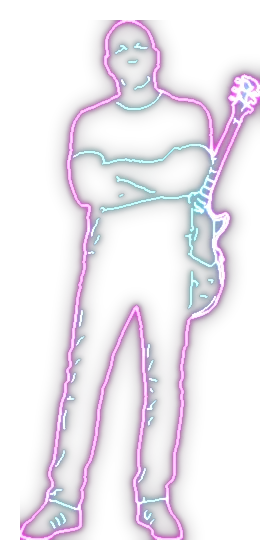
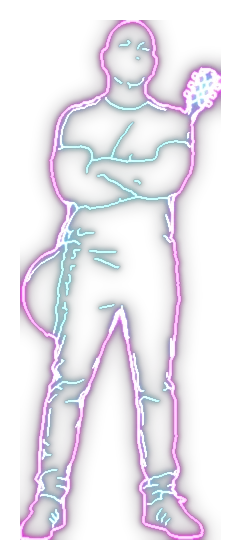
Band moments: back-to-back, headlock, stick tap and toast group shots (tap a member or every ~minute); Jordan's guitar-on-back pose fixed
Claude-Session: https://claude.ai/code/session_011gssdMsenVXumrh9a32rRB

diff --git a/index.html b/index.html
@@ -3057,7 +3057,7 @@ Reply with ONLY JSON: {"reply":"one short friendly sentence","changes":["plain-E
       neon(1); rf.style.opacity=.15; await wait(kind==="big"?900:450);
       for(let i=0;i<(kind==="big"?4:2);i++){ neon(0); await wait(40); neon(1); await wait(40); } neon(0); rf.style.opacity=""; return true; };
     function puff(n){ const R=m.rect(); for(let i=0;i<n;i++) smoke.push({x:R.x+R.w*(.3+Math.random()*.4),y:R.y+R.h*(.02+Math.random()*.25),vx:(Math.random()-.5)*.6,vy:-(0.8+Math.random()*1.2),r:5+Math.random()*6,a:.45,t:0,life:90+Math.random()*60}); kick(); }
-    async function zap(e){ e&&e.stopPropagation(); if(m.busy) return; m.busy=true; clearTimeout(wT); (cfg.sound==="chord"?guitarZap:cfg.sound==="drums"?drumZap:bassZap)(1.5); m.zapping=true; kick(); el.classList.add(cfg.anim||"zz");
+    async function zap(e){ e&&e.stopPropagation(); if(m.busy) return; if(window.MSMomentTry&&Math.random()<.4&&window.MSMomentTry(m)) return; m.busy=true; clearTimeout(wT); (cfg.sound==="chord"?guitarZap:cfg.sound==="drums"?drumZap:bassZap)(1.5); m.zapping=true; kick(); el.classList.add(cfg.anim||"zz");
       setPose(ZAP); place(ZAP); const end=performance.now()+1500; let on=false;
       while(performance.now()<end){ on=!on; neon(on); await wait(55); }
       m.zapping=false; el.classList.remove(cfg.anim||"zz"); neon(0);
@@ -3067,6 +3067,8 @@ Reply with ONLY JSON: {"reply":"one short friendly sentence","changes":["plain-E
       m.spot=-1; await wait(700+Math.random()*600); await appear(); m.busy=false; schedule(); }
     el.addEventListener("click",()=>window.MSSecret&&window.MSSecret("band")); el.addEventListener("click",zap);
     // dancing with Grace: swap poses on the beat with a neon pop (the drummer plays the kit instead)
+    m.away=async()=>{ if(m.busy||gagOn) return false; m.busy=true; clearTimeout(wT); if(m.seated) await stand(); else { await flicker(2); vis(false); neon(0); } m.spot=-1; return true; };
+    m.back=async()=>{ await wait(200+Math.random()*500); await appear(); m.busy=false; schedule(); };
     m.where=()=>m.seated&&S?{x:S.x+S.w*.5,f:S.y+S.h-8,seated:true}:(m.spot>=0?{x:SPOTS[m.spot][0],f:SPOTS[m.spot][1]}:null);
     m.jam=async ms=>{ if(m.busy||gagOn) return false; if(m.seated&&S){ playKit(); return true; }
       m.busy=true; clearTimeout(wT); const end=performance.now()+ms; let k=0;
@@ -3097,13 +3099,37 @@ Reply with ONLY JSON: {"reply":"one short friendly sentence","changes":["plain-E
     ar:{1:.5135,2:.5269,3:.5462,4:.5519,5:.6558,6:.8077,7:.5346,8:.4692,9:.5981,10:.3962,11:.6462,12:.6058,13:.4423,g1:.6346,g2:.6404},f:{1:1.05,6:.78,9:1.3,10:1.05,12:.74,g1:.92,g2:1}});
   // Jordan: shots v3, made from his character master sheet
   const JORDAN=Member({name:"Jordan",home:10,pre:"jj",walkR:5,walkL:11,sit:12,bar:13,gag:"jordan",sound:"chord",anim:"zj",sparky:true,flash:"#37e0ff",bolts:["#7ff3ff","#fff6a0","#22c8ff"],poses:[1,2,3,4,5,6,7,8],zap:9,fried:10,offset:5500,scale:.97,
-    ar:{1:0.6404,2:0.6635,3:0.5712,4:0.5865,5:0.5096,6:0.5,7:0.5308,8:0.4615,9:0.6538,10:0.5173,11:.6231,12:.5827,13:.3596,g1:.6096,g2:.5769},f:{2:.9,3:.97,9:1.36,12:.74,g1:1.04,g2:1.1}});
+    ar:{1:0.6404,2:0.6635,3:0.5712,4:0.5865,5:0.5096,6:0.5,7:0.5308,8:0.3865,9:0.6538,10:0.5173,11:.6231,12:.5827,13:.3596,g1:.6096,g2:.5769},f:{2:.9,3:.97,9:1.36,12:.74,g1:1.04,g2:1.1}});
   // Jacob: drummer, shots v2/v3 from his master sheet (face-locked)
-  const JACOB=Member({name:"Jacob",pre:"jb",v:"?v=4",gag:"jacob",sound:"drums",anim:"zz",flash:"#ff6ae6",poses:[1,2,3,4,5,6,7,8],zap:9,fried:10,offset:2700,scale:.98,
+  const JACOB=Member({name:"Jacob",pre:"jb",v:"?v=b5",gag:"jacob",sound:"drums",anim:"zz",flash:"#ff6ae6",poses:[1,2,3,4,5,6,7,8],zap:9,fried:10,offset:2700,scale:.98,
     seat:{pre:"jbk",frames:[1,2,3,4],idle:1,x:778,y:309,w:433,h:338,z:74,p:.5,start:true,hit:[182,58,118,150]},
     ar:{1:.4673,2:.3846,3:.2962,4:.3558,5:.5269,6:.3346,7:.3615,8:.6077,9:.6154,10:.3423,g1:.5115,g2:.4269},f:{1:1.12,7:1.14,8:.68,9:1.06,10:1.08,g1:1,g2:1.29}});
   // every so often one of them pulls a stunt; ?gag=pat|jordan|jacob runs one right away
   const CREW={pat:PAT,jordan:JORDAN,jacob:JACOB}; window.MSGag=n=>CREW[n]&&CREW[n].gag();
+  // band moments: two or three of them together (back to back, headlock, stick tap, toast). Tap a member and sometimes they do one; also now and then on their own
+  { const MOM=[{k:"backtoback",who:[PAT,JORDAN],ar:.7135},{k:"headlock",who:[PAT,JACOB],ar:.65},{k:"sticktap",who:[PAT,JACOB],ar:.6058},{k:"toast",who:[PAT,JORDAN,JACOB],ar:.7135}];
+    const V="?v=1"; MOM.forEach(o=>window.MSIdleLoad&&window.MSIdleLoad(`img/band/gm${o.k}-real.webp${V}`));
+    let on=false;
+    const ok=()=>!on&&!gagOn&&!document.hidden&&!(window.MSAway&&window.MSAway())&&(!window.MSView||window.MSView==="The band");
+    async function run(o){ if(!ok()||o.who.some(m=>m.busy)) return false; on=true;
+      const ALL=[PAT,JORDAN,JACOB], res=await Promise.all(ALL.map(m=>m.away())); /* everyone clears the stage; whoever is not in the shot comes back after */
+      if(o.who.some(m=>!res[ALL.indexOf(m)])){ ALL.forEach((m,i)=>res[i]&&m.back()); on=false; return false; }
+      const F=716, h=hFor(F)*1.06, w=h*o.ar, x=1027;
+      const d=document.createElement("div"); d.className="band-mom"; d.setAttribute("role","button"); d.setAttribute("aria-label","The band");
+      Object.assign(d.style,{position:"absolute",left:(x-w/2)+"px",top:(F-h)+"px",width:w+"px",height:h+"px",zIndex:10+Math.round(F/10),cursor:"pointer"});
+      const r=new Image(), n=new Image(); r.src=`img/band/gm${o.k}-real.webp${V}`; n.src=`img/band/gm${o.k}-neon.webp${V}`; r.alt=n.alt="";
+      Object.assign(r.style,{position:"absolute",inset:0,width:"100%",height:"100%",opacity:0}); Object.assign(n.style,{position:"absolute",left:"-20px",top:"-20px",width:"calc(100% + 40px)",height:"calc(100% + 40px)",opacity:0,mixBlendMode:"screen",pointerEvents:"none"});
+      const sh=document.createElement("div"); Object.assign(sh.style,{position:"absolute",left:"8%",right:"8%",bottom:"-8px",height:"16px",borderRadius:"50%",background:"radial-gradient(closest-side,rgba(0,0,0,.55),transparent)"});
+      d.append(sh,r,n); play.insertBefore(d,cv);
+      await new Promise(res=>{ if(r.complete) res(); else { r.onload=res; r.onerror=res; } });
+      for(let i=0;i<4;i++){ n.style.opacity=1; await wait(50+Math.random()*50); n.style.opacity=0; await wait(40+Math.random()*60); } r.style.opacity=1;
+      let stop=false; d.addEventListener("click",e=>{ e.stopPropagation(); stop=true; window.MSSecret&&window.MSSecret("band"); }); const t0=performance.now();
+      while(!stop&&performance.now()-t0<6500){ const k=(performance.now()-t0)/1000; r.style.transform=`translateY(${(-Math.abs(Math.sin(k*3.2))*4).toFixed(1)}px)`; await wait(40); }
+      for(let i=0;i<3;i++){ n.style.opacity=1; r.style.opacity=.3; await wait(50); n.style.opacity=0; r.style.opacity=1; await wait(50); }
+      d.remove(); ALL.forEach((m,i)=>res[i]&&m.back()); await wait(1200); on=false; return true; }
+    window.MSMoment=k=>run(MOM.find(o=>o.k===k)||MOM[0]);
+    window.MSMomentTry=m=>{ if(!ok()) return false; const c=MOM.filter(o=>o.who.includes(m)&&o.who.every(x=>!x.busy)); if(!c.length) return false; run(c[Math.floor(Math.random()*c.length)]); return true; };
+    if(!still) (async()=>{ await wait(35000+Math.random()*15000); while(true){ if(ok()) await run(MOM[Math.floor(Math.random()*MOM.length)]); await wait(45000+Math.random()*30000); } })(); }
   // the band follows the camera: Hangout = Pat to the sofa, Jordan by the binoculars; Lounge = Jordan to the bar, Pat by the bar; band view = back to the kit
   { const PLAN={"Walkway":[[PAT,11],[JORDAN,12]],"The band":[[PAT,9],[JORDAN,10]],"Lounge":[[JORDAN,13,"bar"],[PAT,14]]}; let vT=0, gen=0;
     addEventListener("msview",e=>{ clearTimeout(vT); const v=e.detail, g=++gen; vT=setTimeout(async()=>{ if(still) return;
